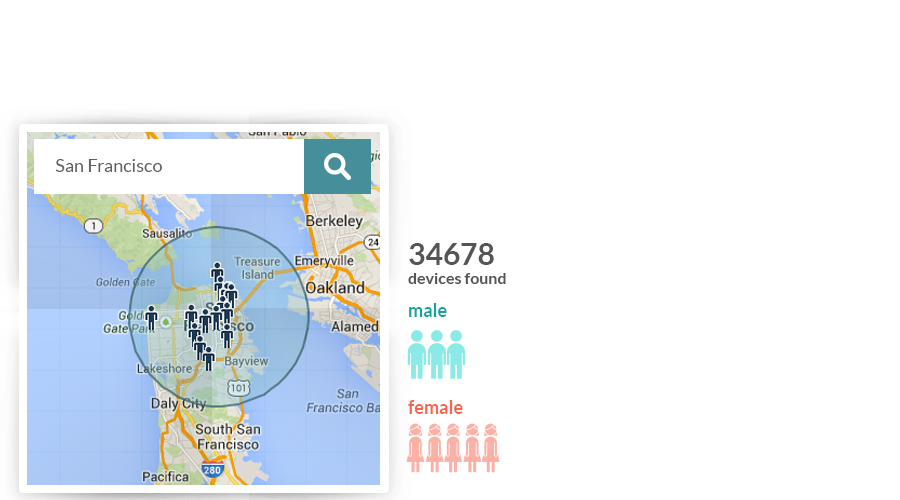
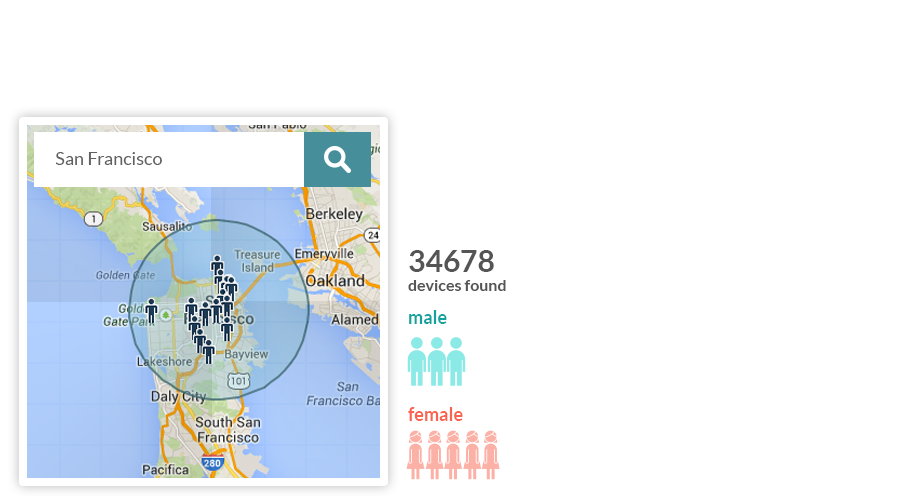
Updated and added most images

Changed region(s): [[0.0311, 0.24, 0.56, 1.0]]

diff --git a/features/unified-push-messaging/index.html b/features/unified-push-messaging/index.html
@@ -9,6 +9,7 @@ text_kop: Unified push messaging
 
 <div class="jumbotron">
 	<h1>One push for all!</h1>
+	<img class="img-float-right margin-left-15 img-responsive" src="/images/features/header_unified_push.png" alt="One push for all!">
 	<p class="lead">
 		Reach your customers regardless of the device they are using. <br />
 		On their desks or in their pockets, your app can provide a unified experience across all major platforms.
@@ -18,7 +19,6 @@ text_kop: Unified push messaging
 
 <div class="row features-row">
 	<div class="col-lg-12">
-		<img class="img-float-left margin-right-15 img-responsive" data-src="holder.js/500x200/auto" alt="Generic placeholder image">
 		<h2>One single app. All your platforms.</h2>
 		<p>
 			Soon you create an application in Notificare you're already enabling our platform to provide messages over WebSockets without any additional setup. 
@@ -30,8 +30,8 @@ text_kop: Unified push messaging
 
 <div class="row features-row">
 	<div class="col-lg-12">
-		<img class="img-float-right margin-left-15 img-responsive" data-src="holder.js/500x200/auto" alt="Generic placeholder image">
-		<h2>All your insights. Unified.</h2>
+	    <img class="img-float-left margin-right-15 img-responsive" src="/images/features/all-your-insights-unified.png" alt="All your insights. Unified">
+	    <h2>All your insights. Unified.</h2>
 		<p>
 			All the data we gather for you will give you a pretty clear picture about your app's performance. 
 			How fragmented is your app? What about operating systems, devices or user language? 
@@ -44,8 +44,8 @@ text_kop: Unified push messaging
 
 <div class="row features-row">
 	<div class="col-lg-12">
-		<img class="img-float-left margin-right-15 img-responsive" data-src="holder.js/500x200/auto" alt="Generic placeholder image">
-		<h2>A single composer or API endpoint</h2>
+	    <img class="img-float-right margin-right-15 img-responsive" src="/images/features/a-single-composer-or-API-endpoint.png" alt="A single composer or API endpoint">
+	    <h2>A single composer or API endpoint</h2>
 		<p>
 			Our unique approach to the unified message paradigm will deliver notifications to iOS and Android apps or websites. 
 			Despite these platforms (Apple Push Notification Service, Google Cloud Messaging and HTML5 WebSockets) all having different characteristics and capabilities, 
@@ -58,7 +58,7 @@ text_kop: Unified push messaging
 
 <div class="row features-row">
 	<div class="col-lg-12">
-		<img class="img-float-right margin-left-15 img-responsive" data-src="holder.js/500x200/auto" alt="Generic placeholder image">
+	    <img class="img-float-left margin-right-15 img-responsive" src="/images/features/most-native-and-customizable-UI.png" alt="Most native and customizble UI">
 		<h2>Most native &amp; customizable UI</h2>
 		<p>
 			By using our SDK libraries you will no longer need to spend development time in creating custom solutions for every type of message you want to send. 

diff --git a/features/dashboard/index.html b/features/dashboard/index.html
@@ -29,7 +29,7 @@ text_kop: Dashboard
 		</p>
 	</div>
 	<div class="col-lg-6">
-		<img class="img-float-left margin-right-15 img-responsive" src="/images/features/dashboard_unlimitedapps.png" alt="Unlimited apps">
+		<img class="img-float-left margin-right-15 img-responsive" src="/images/features/manage-your-services.png" alt="Manage your services">
 		<h3>Manage your services</h3>
 		<p>
 			For unified push across all platforms, managing those services is a breeze.
@@ -44,7 +44,7 @@ text_kop: Dashboard
 
 <div class="row">
 	<div class="col-lg-6">
-		<img class="img-float-left margin-right-15 img-responsive" src="/images/features/dashboard_unlimitedapps.png" alt="Unlimited apps">
+		<img class="img-float-left margin-right-15 img-responsive" src="/images/features/measure-your-data.png" alt="Measure your data">
 		<h3>Measure your data</h3>
 		<p>
 			See how many users installed your app, and how many opted-in for push notification. 
@@ -53,7 +53,7 @@ text_kop: Dashboard
 		</p>
 	</div>
 	<div class="col-lg-6">
-		<img class="img-float-left margin-right-15 img-responsive" src="/images/features/dashboard_unlimitedapps.png" alt="Unlimited apps">
+		<img class="img-float-left margin-right-15 img-responsive" src="/images/features/friendly-message-composer.png" alt="Friendly message composer">
 		<h3>Friendly message composer</h3>
 		<p>
 			Compose and preview your message from a single view. Instantly see how large your targeted audience is as you go.
@@ -66,7 +66,7 @@ text_kop: Dashboard
 
 <div class="row">
 	<div class="col-lg-6">
-		<img class="img-float-left margin-right-15 img-responsive" src="/images/features/dashboard_unlimitedapps.png" alt="Unlimited apps">
+		<img class="img-float-left margin-right-15 img-responsive" src="/images/features/track-your-message-performance.png" alt="Track your message performance">
 		<h3>Track your message performance</h3>
 		<p>
 			See how your users behave after you sent them a message. See your app's retention rate change over time. 
@@ -74,7 +74,7 @@ text_kop: Dashboard
 		</p> 
 	</div>
 	<div class="col-lg-6">
-		<img class="img-float-left margin-right-15 img-responsive" src="/images/features/dashboard_unlimitedapps.png" alt="Unlimited apps">
+		<img class="img-float-left margin-right-15 img-responsive" src="/images/features/find-your-audience.png" alt="Find your audience">
 		<h3>Find your audience</h3>
 		<p>
 			Make a relevant selection of users to target. Look for users around you or one of your locations. 

diff --git a/features/api/index.html b/features/api/index.html
@@ -9,6 +9,7 @@ text_kop: RESTful API
 
 <div class="jumbotron">
 	<h1>RESTful API</h1>
+	<img class="img-float-right margin-left-15 img-responsive" src="/images/features/feature_api.png" alt="ESTful API">
 	<p class="lead">
 		From segmenting users to sending notifications, you can do everything that's possible in the Dashboard, and more.
 		All with simple, but powerful HTTP requests.
@@ -48,17 +49,17 @@ text_kop: RESTful API
 
 <div class="row">
 	<div class="col-lg-6">
-		<img class="img-float-left margin-right-15 img-responsive" data-src="holder.js/200x200/auto" alt="Generic placeholder image">
+		<img class="img-float-left margin-right-15 img-responsive" src="/images/features/process-feedback.png" alt="Process feedback">
 		<h2>Process feedback</h2>
 		<p>
-			Retrieve the feedback you see in the dashboard, now process in your own format.
+			Process the feedback you also see in the dashboard in your own format.
 			Even get it live when users click that button. 
-			We make sure we deliver it both to your dashboard, as well as your back-end API. 
+			We make sure to deliver it both to your dashboard, as well as to your back-end API. 
 		</p>
 		<p><a class="btn btn-primary" href="https://notificare.atlassian.net/wiki/display/notificare/Restful+API" role="button">View documentation</a></p>
 	</div>
 	<div class="col-lg-6">
-		<img class="img-float-right margin-left-15 img-responsive" data-src="holder.js/200x200/auto" alt="Generic placeholder image">
+		<img class="img-float-left margin-right-15 img-responsive" src="/images/features/retrieve-statistics.png" alt="Retrieve statistics">
 		<h2>Retrieve statistics</h2>
 		<p>
 			Running your own statistical analysis? Want to integrate into your own online marketing dashboard?

diff --git a/features/create-an-engaging-experience/index.html b/features/create-an-engaging-experience/index.html
@@ -9,6 +9,7 @@ text_kop: Create an engaging experience
 
 <div class="jumbotron">
 	<h1>Go the extra mile. Be creative.</h1>
+	<img class="img-float-right margin-left-15 img-responsive" src="/images/features/header_composer.png" alt="Engaging Experience">
 	<p class="lead">
 		Use our predefined message templates to kick start your messages. <br />
 		Starting a campaign, offering discounts or asking feedback from your users has never been this easy.
@@ -19,7 +20,7 @@ text_kop: Create an engaging experience
 
 <div class="row features-row">
 	<div class="col-lg-12">
-		<img class="img-float-left margin-right-15 img-responsive" data-src="holder.js/500x200/auto" alt="Generic placeholder image">
+<!--		<img class="img-float-left margin-right-15 img-responsive" data-src="holder.js/500x200/auto" alt="Generic placeholder image"> -->
 		<h2>Rich push notifications</h2>
 		<p>
 			Just a simple alert, a fully designed HTML page or an elaborate map: we've got you covered! 

diff --git a/features/discover-your-audience/index.html b/features/discover-your-audience/index.html
@@ -9,6 +9,7 @@ text_kop: Discover your audience
 
 <div class="jumbotron">
 	<h1>Get to know your users</h1>
+	<img class="img-float-right margin-left-15 img-responsive" src="/images/features/header_users.png" alt="Discover your audience">
 	<p class="lead">
 		We let you create personal, user-centered and user-driven experiences. <br />
 		Building a relationship is all about communication.
